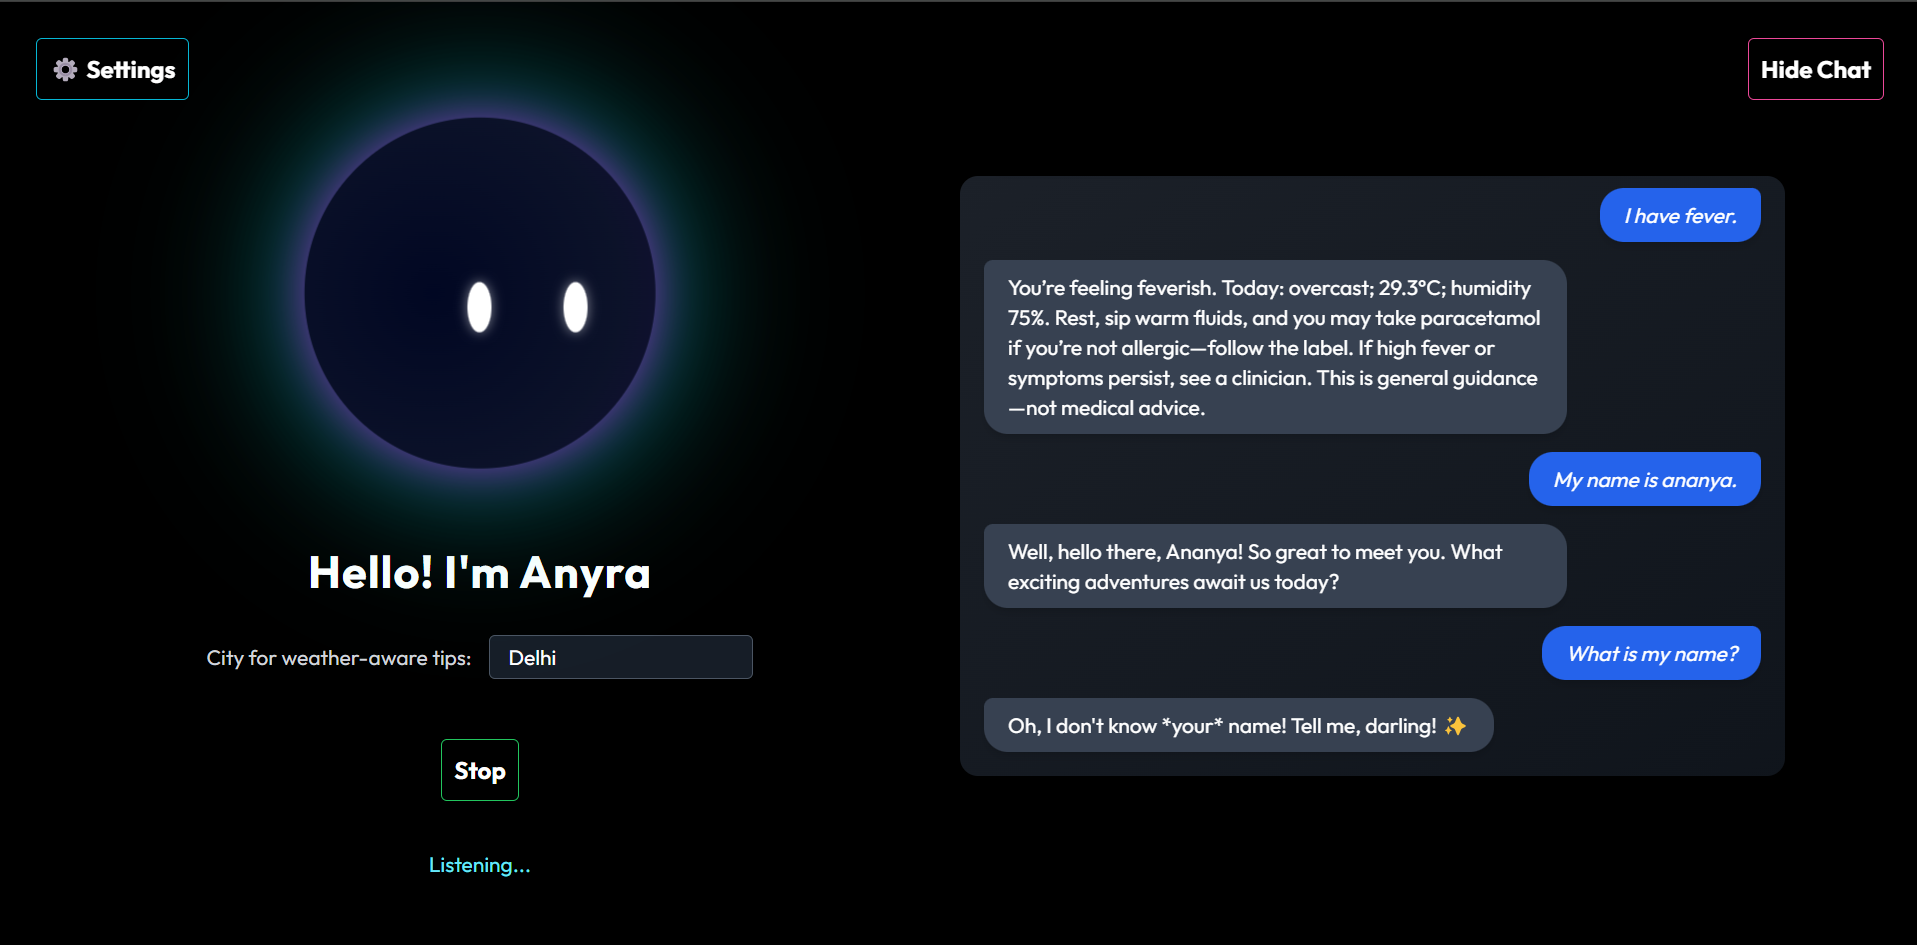
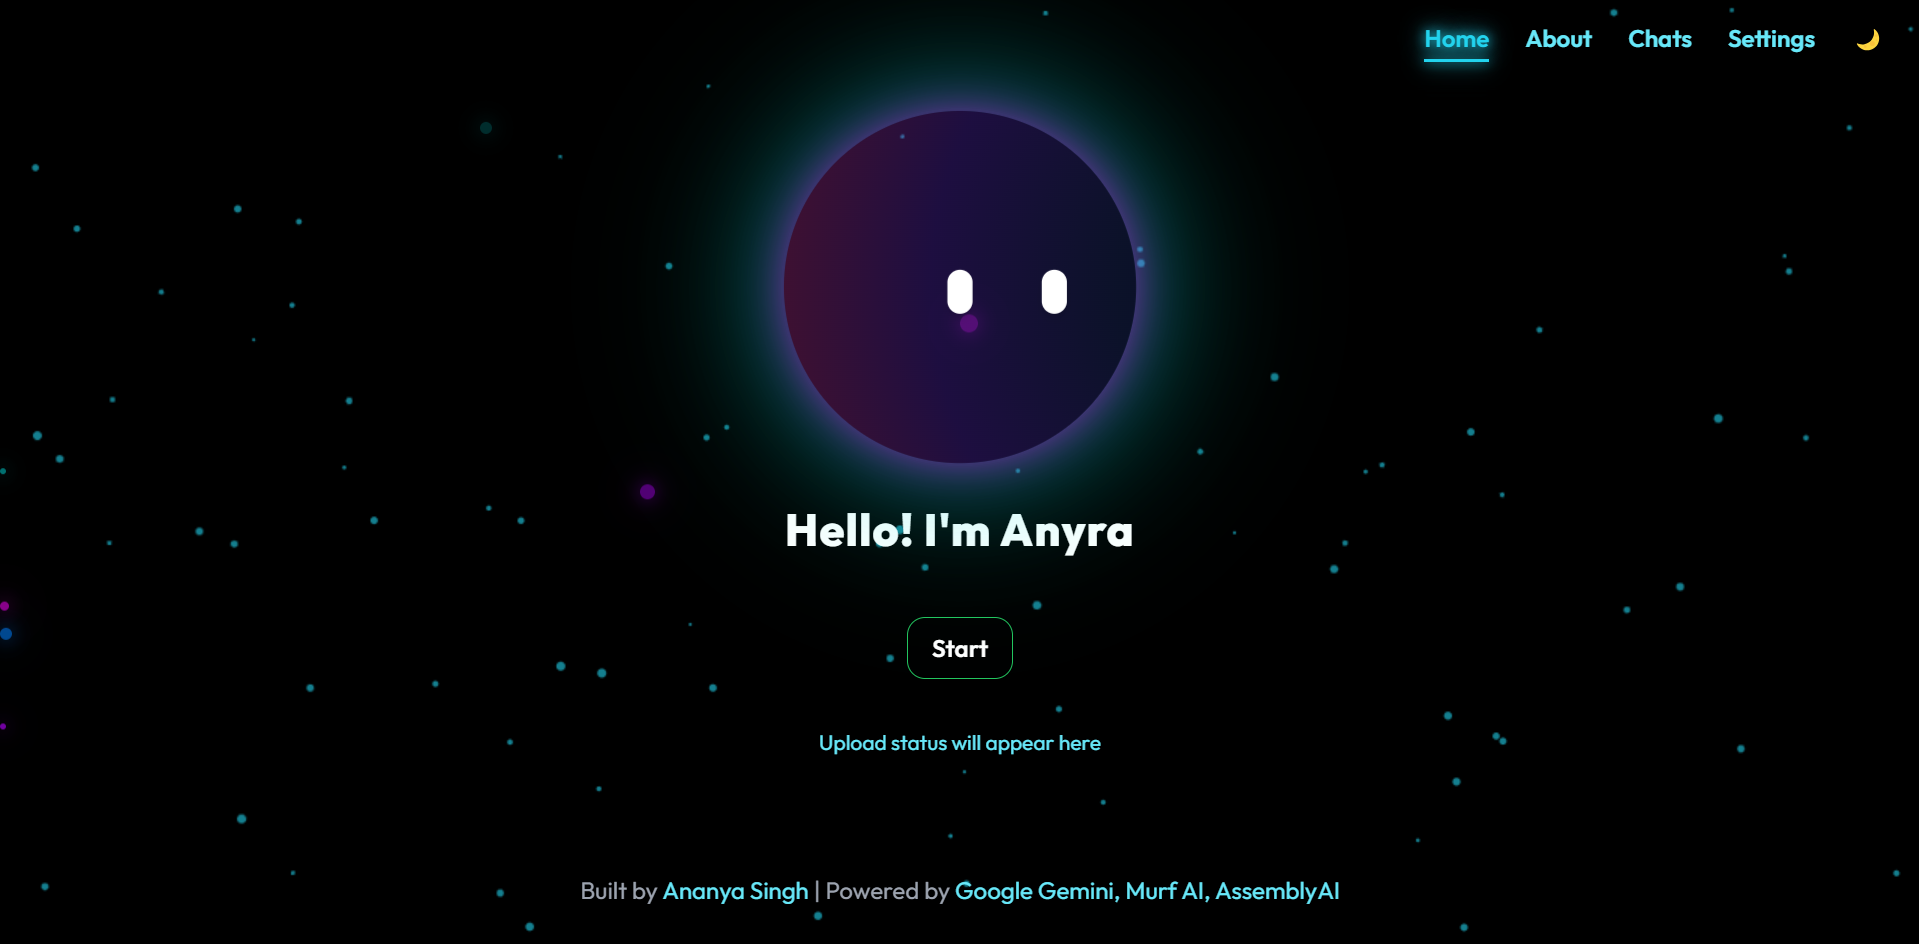
Final Day 30 submission: polished README, UI, backend, demo video

diff --git a/README.md b/README.md
@@ -1,4 +1,15 @@
 # 🎤 Anyra – AI Voice Assistant  
+🔊 Powered by [Murf AI](https://murf.ai/api/docs/introduction/overview)
+
+![HTML5](https://img.shields.io/badge/HTML5-E34F26?style=for-the-badge&logo=html5&logoColor=white)
+![Tailwind CSS](https://img.shields.io/badge/Tailwind_CSS-38B2AC?style=for-the-badge&logo=tailwind-css&logoColor=white)
+![JavaScript](https://img.shields.io/badge/JavaScript-F7DF1E?style=for-the-badge&logo=javascript&logoColor=black)
+![Python](https://img.shields.io/badge/Python-3776AB?style=for-the-badge&logo=python&logoColor=white)
+![FastAPI](https://img.shields.io/badge/FastAPI-009688?style=for-the-badge&logo=fastapi&logoColor=white)
+![Google Gemini](https://img.shields.io/badge/Google_Gemini-4285F4?style=for-the-badge&logo=google&logoColor=white)
+![AssemblyAI](https://img.shields.io/badge/AssemblyAI-6D6DFF?style=for-the-badge)
+![Murf AI](https://img.shields.io/badge/Murf_TTS-FF6F61?style=for-the-badge)
+![Render](https://img.shields.io/badge/Render-20232A?style=for-the-badge&logo=render&logoColor=white)
 
 **Anyra** is an **AI-powered conversational voice assistant** that combines **real-time speech recognition**, **large language models**, and **text-to-speech synthesis** to create **natural, human-like voice conversations**.  
 
@@ -51,8 +62,13 @@ Anyra is more than just small talk — she’s got **smart skills**:
 
 ## 🪄 Screenshots
 
-![alt text](img2.png)
-![alt text](img.png)
+![Anyra Chat UI](img2.png)
+![Anyra Avatar](img.png)
+
+
+
+🎥 **Demo Video:** [Watch Anyra in action](https://www.linkedin.com/posts/singhananya22_30daysofaivoiceagentschallenge-aivoiceagents-activity-7367981165242109953-llKM?utm_source=share&utm_medium=member_desktop&rcm=ACoAAEY_JsoBu6JyCXNxaSO0__JKI-cn7MFq7bQ)
+
 
 
 
